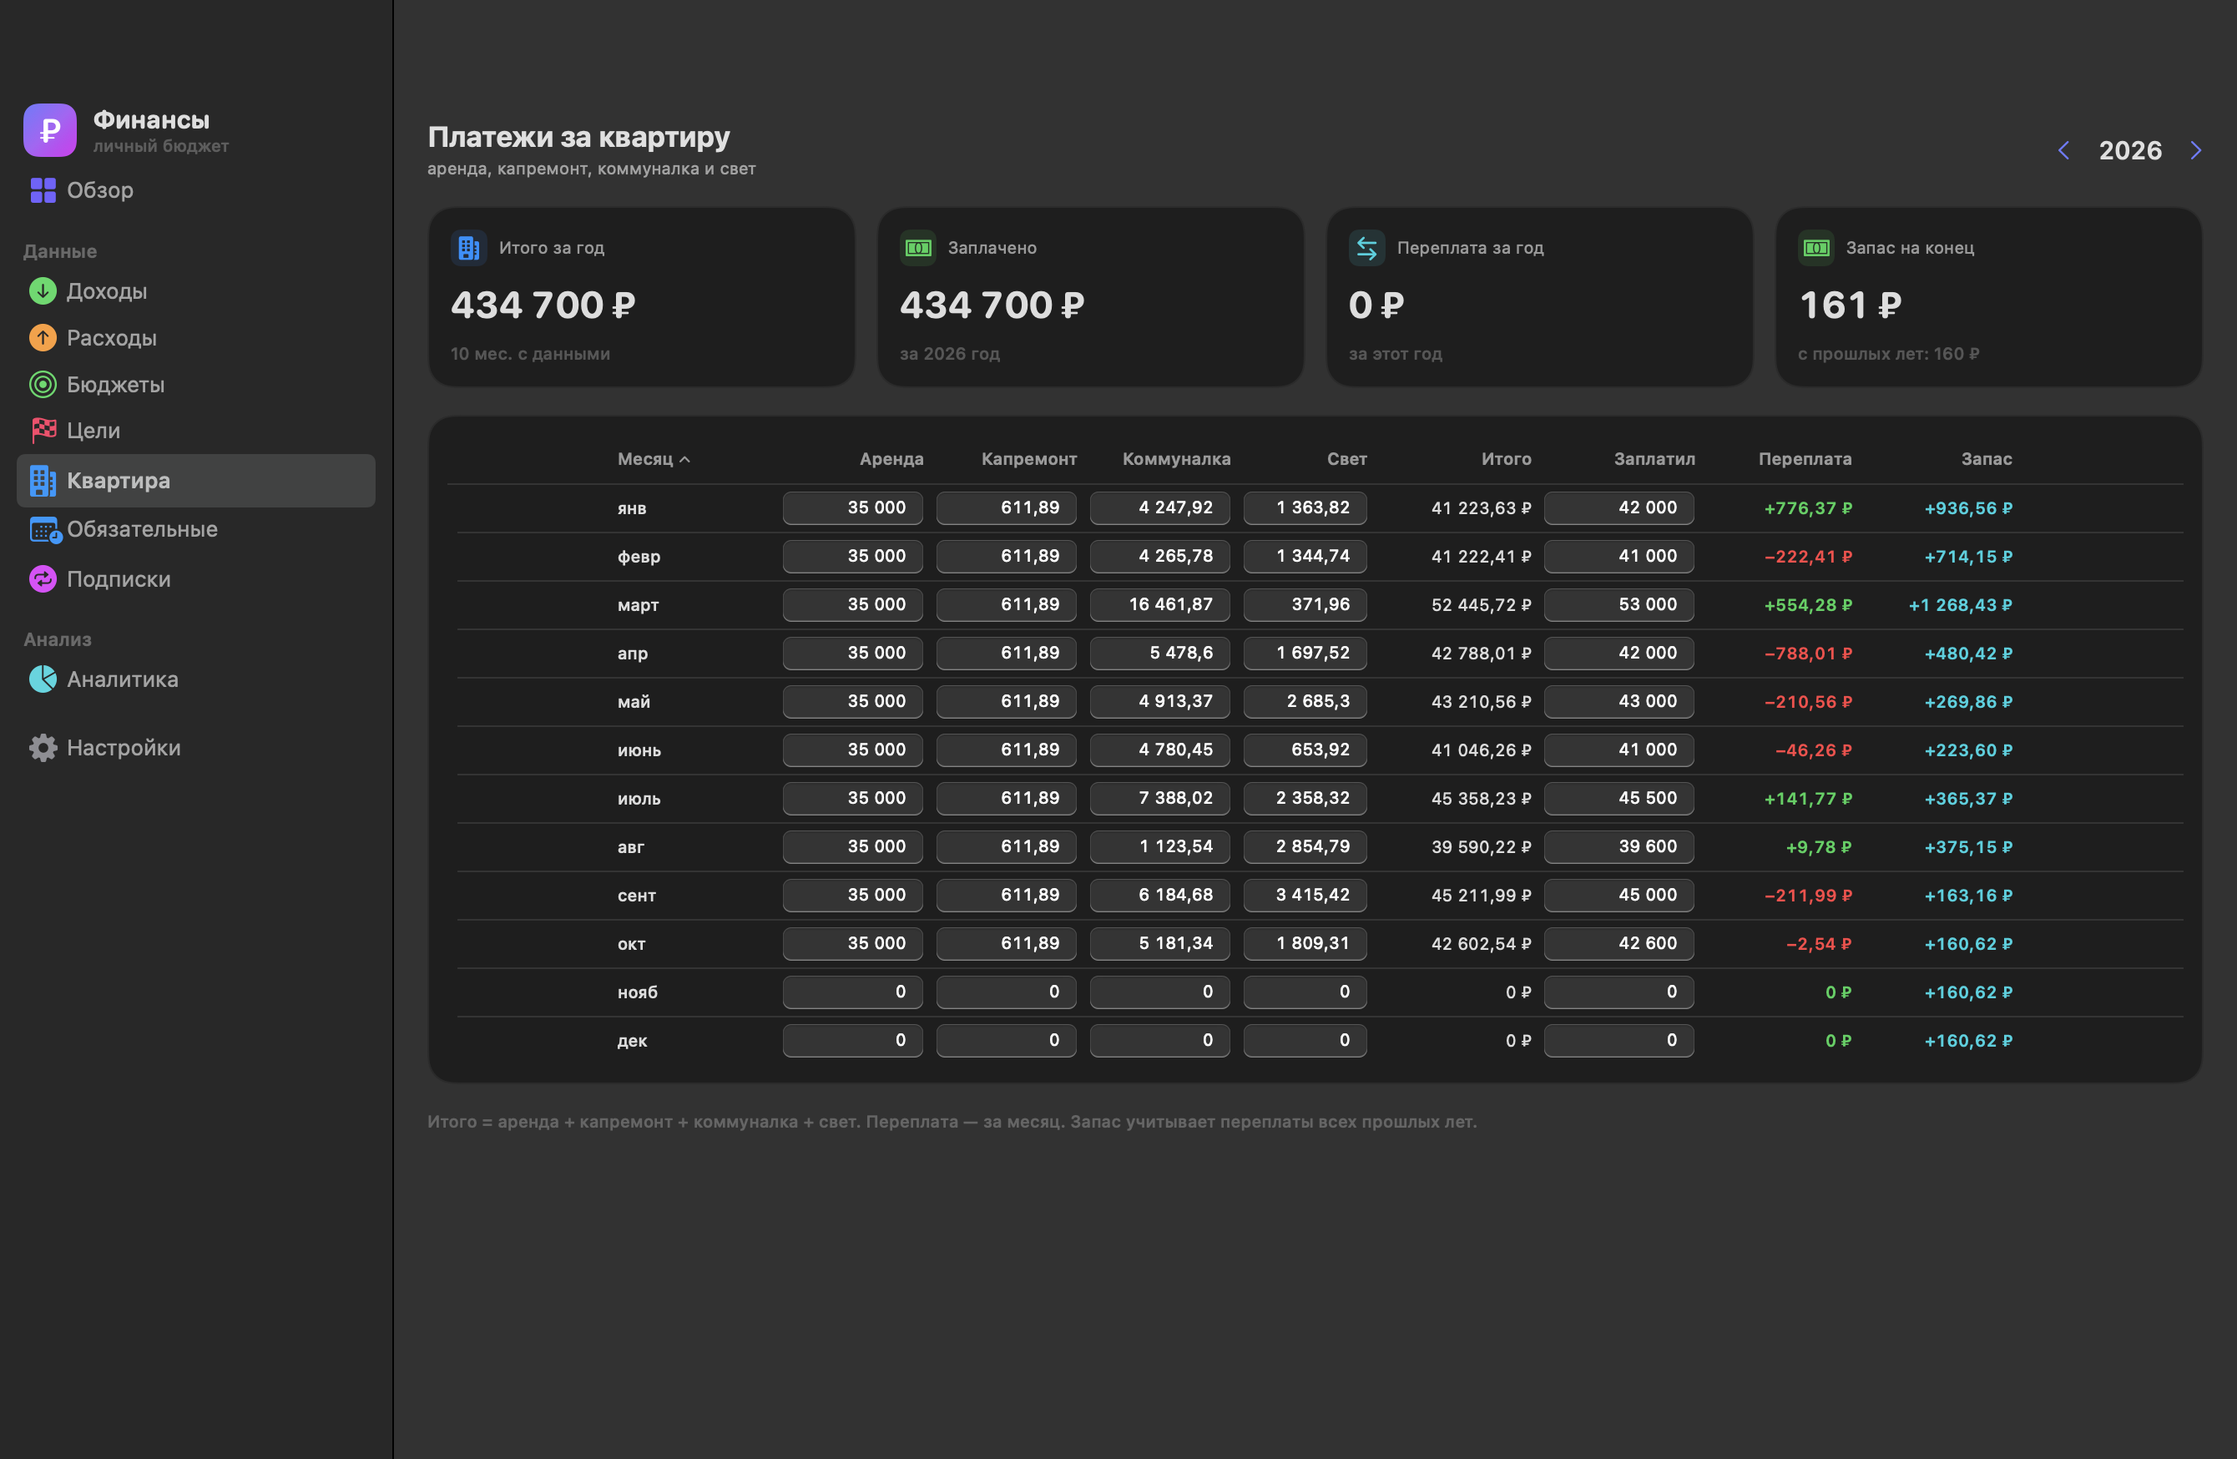
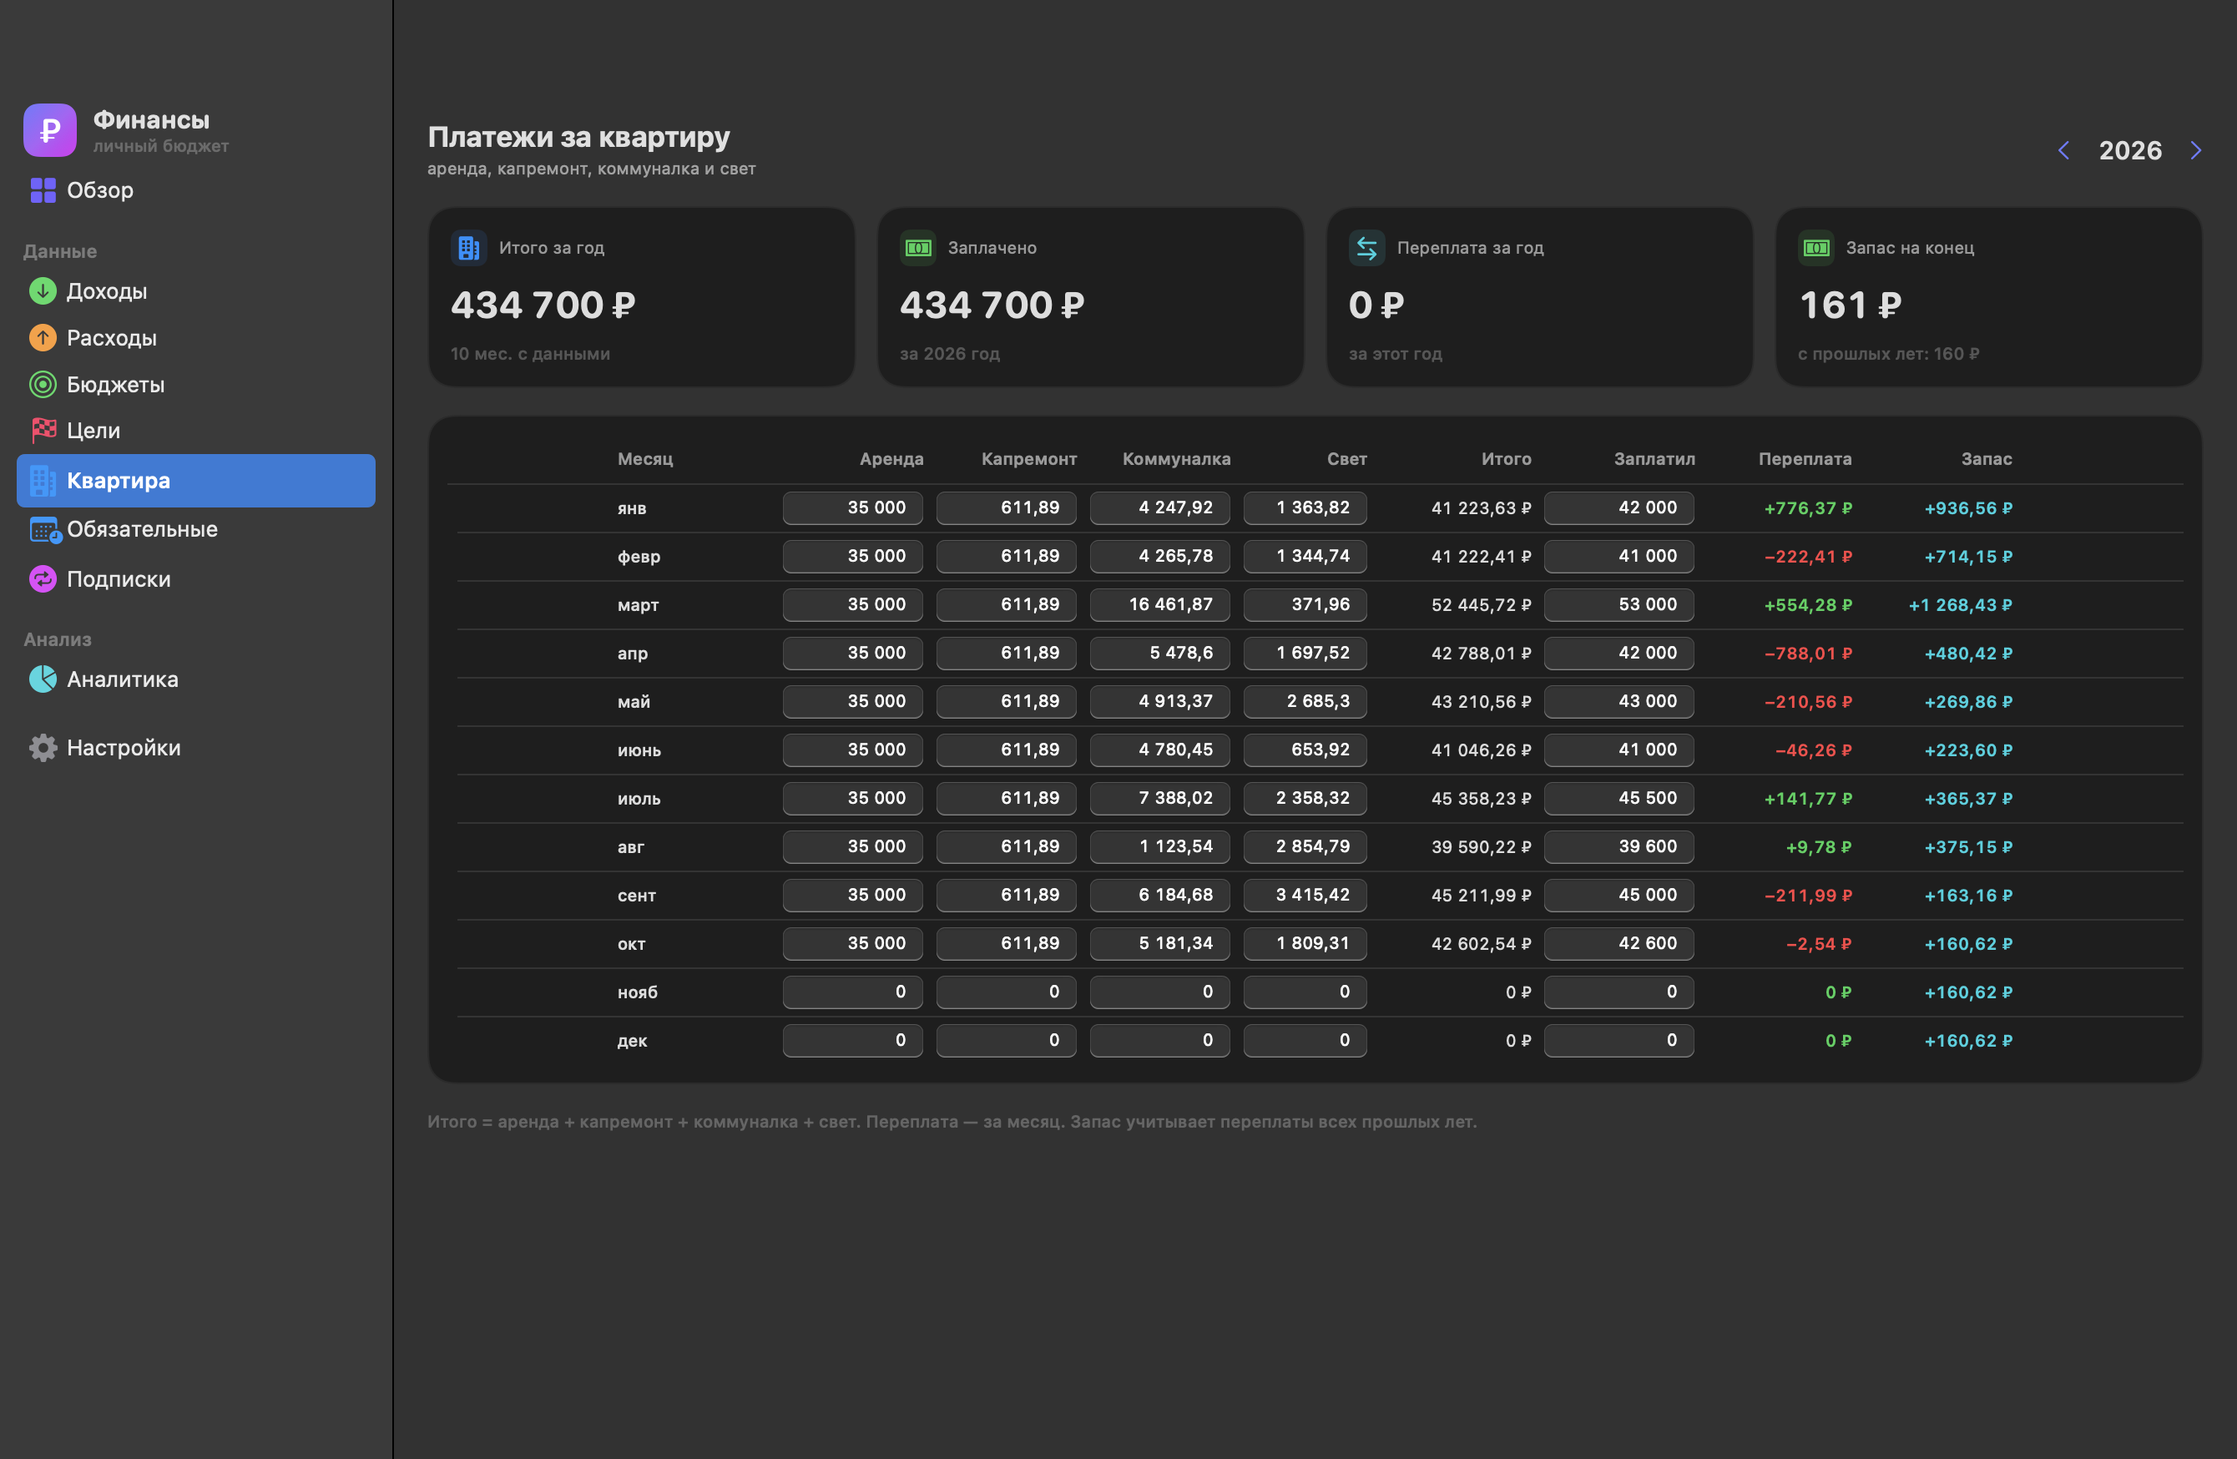
feat: sort income and expense tables
- clickable sortable columns with direction indicator
- remove sorting from apartment table
- fix past-month payment dates
- 117 tests

Changed region(s): [[0.0, 0.1854, 0.1858, 0.4016], [0.031, 0.4634, 0.0929, 0.5252], [0.031, 0.1236, 0.0619, 0.1545]]

diff --git a/Sources/FinancesUI/Views/Apartment/ApartmentView.swift b/Sources/FinancesUI/Views/Apartment/ApartmentView.swift
@@ -12,8 +12,6 @@ struct ApartmentView: View {
     @State private var year: Int = Date().year
     @State private var resultMessage: String?
     @State private var isWorking = false
-    @State private var sortColumn: ApartmentSortColumn = .month
-    @State private var sortAscending = true
 
     private var yearMonths: [ApartmentMonth] {
         months.filter { $0.year == year }.sorted { $0.month < $1.month }
@@ -32,47 +30,6 @@ struct ApartmentView: View {
     private var runningBalances: [Int: Double] {
         ApartmentService.runningBalances(for: year, months: months)
     }
-    private var sortedMonths: [ApartmentMonth] {
-        yearMonths.sorted { lhs, rhs in
-            let comparison: ComparisonResult
-            switch sortColumn {
-            case .month:
-                comparison = compare(lhs.month, rhs.month)
-            case .rent:
-                comparison = compare(lhs.rent, rhs.rent)
-            case .capitalRepair:
-                comparison = compare(lhs.capitalRepair, rhs.capitalRepair)
-            case .utilities:
-                comparison = compare(lhs.utilities, rhs.utilities)
-            case .electricity:
-                comparison = compare(lhs.electricity, rhs.electricity)
-            case .total:
-                comparison = compare(lhs.total, rhs.total)
-            case .paid:
-                comparison = compare(lhs.paid, rhs.paid)
-            case .overpayment:
-                comparison = compare(lhs.overpayment, rhs.overpayment)
-            case .stock:
-                comparison = compare(
-                    runningBalances[lhs.month] ?? 0,
-                    runningBalances[rhs.month] ?? 0
-                )
-            }
-            if comparison == .orderedSame {
-                return lhs.month < rhs.month
-            }
-            return sortAscending
-                ? comparison == .orderedAscending
-                : comparison == .orderedDescending
-        }
-    }
-
-    private func compare<T: Comparable>(_ lhs: T, _ rhs: T) -> ComparisonResult {
-        if lhs < rhs { return .orderedAscending }
-        if lhs > rhs { return .orderedDescending }
-        return .orderedSame
-    }
-
     private var filledMonths: Int {
         yearMonths.filter {
             $0.rentKopecks != 0 || $0.capitalRepairKopecks != 0
@@ -201,15 +158,15 @@ struct ApartmentView: View {
         CardView(padding: 12) {
             VStack(spacing: 0) {
                 HStack(spacing: 6) {
-                    sortHeader("Месяц", .month, width: 92, alignment: .leading)
-                    sortHeader("Аренда", .rent, width: 86)
-                    sortHeader("Капремонт", .capitalRepair, width: 86)
-                    sortHeader("Коммуналка", .utilities, width: 86)
-                    sortHeader("Свет", .electricity, width: 76)
-                    sortHeader("Итого", .total, width: 92)
-                    sortHeader("Заплатил", .paid, width: 92)
-                    sortHeader("Переплата", .overpayment, width: 88)
-                    sortHeader("Запас", .stock, width: 90)
+                    Text("Месяц").frame(width: 92, alignment: .leading)
+                    Text("Аренда").frame(width: 86, alignment: .trailing)
+                    Text("Капремонт").frame(width: 86, alignment: .trailing)
+                    Text("Коммуналка").frame(width: 86, alignment: .trailing)
+                    Text("Свет").frame(width: 76, alignment: .trailing)
+                    Text("Итого").frame(width: 92, alignment: .trailing)
+                    Text("Заплатил").frame(width: 92, alignment: .trailing)
+                    Text("Переплата").frame(width: 88, alignment: .trailing)
+                    Text("Запас").frame(width: 90, alignment: .trailing)
                 }
                 .font(.caption2.weight(.semibold))
                 .foregroundStyle(.secondary)
@@ -217,44 +174,19 @@ struct ApartmentView: View {
                 .padding(.vertical, 8)
                 Divider()
 
-                ForEach(sortedMonths) { month in
-                    ApartmentRow(
-                        month: month,
-                        runningBalance: runningBalances[month.month] ?? 0
-                    )
-                    if month.id != sortedMonths.last?.id {
+                ForEach(1...12, id: \.self) { number in
+                    if let month = yearMonths.first(where: { $0.month == number }) {
+                        ApartmentRow(
+                            month: month,
+                            runningBalance: runningBalances[number] ?? 0
+                        )
+                    }
+                    if number != 12 {
                         Divider().padding(.leading, 6)
                     }
                 }
             }
         }
-    }
-
-    private func sortHeader(
-        _ title: String,
-        _ column: ApartmentSortColumn,
-        width: CGFloat,
-        alignment: Alignment = .trailing
-    ) -> some View {
-        Button {
-            if sortColumn == column {
-                sortAscending.toggle()
-            } else {
-                sortColumn = column
-                sortAscending = true
-            }
-        } label: {
-            HStack(spacing: 2) {
-                Text(title)
-                if sortColumn == column {
-                    Image(systemName: sortAscending ? "chevron.up" : "chevron.down")
-                        .font(.system(size: 7, weight: .bold))
-                }
-            }
-            .frame(width: width, alignment: alignment)
-        }
-        .buttonStyle(.plain)
-        .help("Сортировать по колонке «\(title)»")
     }
 
     private func ensureMonths() {
@@ -339,18 +271,6 @@ struct ApartmentView: View {
             ErrorCenter.shared.report(error)
         }
     }
-}
-
-private enum ApartmentSortColumn {
-    case month
-    case rent
-    case capitalRepair
-    case utilities
-    case electricity
-    case total
-    case paid
-    case overpayment
-    case stock
 }
 
 private struct ApartmentRow: View {

diff --git a/Sources/FinancesUI/Views/Income/IncomeView.swift b/Sources/FinancesUI/Views/Income/IncomeView.swift
@@ -14,6 +14,9 @@ struct IncomeView: View {
     @State private var editor: EditorContext?
     @State private var confirmDelete = false
     @State private var pendingDelete = Set<PersistentIdentifier>()
+    @State private var sortOrder: [KeyPathComparator<IncomeEntry>] = [
+        KeyPathComparator(\IncomeEntry.date, order: .reverse)
+    ]
 
     private struct EditorContext: Identifiable {
         let id = UUID()
@@ -118,32 +121,32 @@ struct IncomeView: View {
     }
 
     private var table: some View {
-        Table(filtered, selection: $selection) {
-            TableColumn("Дата") { entry in
+        Table(filtered, selection: $selection, sortOrder: $sortOrder) {
+            TableColumn("Дата", value: \.date) { entry in
                 Text(MonthFormat.day(entry.date))
                     .font(.callout)
                     .foregroundStyle(.secondary)
             }
             .width(min: 100, ideal: 115)
 
-            TableColumn("Тип") { entry in
+            TableColumn("Тип", value: \.typeRaw) { entry in
                 TagBadge(text: entry.type.title, color: entry.type.color, icon: entry.type.icon)
             }
             .width(min: 120, ideal: 145)
 
-            TableColumn("Сумма") { entry in
+            TableColumn("Сумма", value: \.amountKopecks) { entry in
                 Text(Fmt.money(entry.amount))
                     .font(.callout.weight(.semibold))
                     .monospacedDigit()
             }
             .width(min: 110, ideal: 130)
 
-            TableColumn("Работодатель") { entry in
+            TableColumn("Работодатель", value: \.employer) { entry in
                 Text(entry.employer)
                     .lineLimit(1)
             }
 
-            TableColumn("Комментарий") { entry in
+            TableColumn("Комментарий", value: \.note) { entry in
                 Text(entry.note)
                     .foregroundStyle(.secondary)
                     .lineLimit(1)

diff --git a/Sources/FinancesUI/Views/Expenses/ExpensesView.swift b/Sources/FinancesUI/Views/Expenses/ExpensesView.swift
@@ -14,6 +14,9 @@ struct ExpensesView: View {
     @State private var editor: EditorContext?
     @State private var confirmDelete = false
     @State private var pendingDelete = Set<PersistentIdentifier>()
+    @State private var sortOrder: [KeyPathComparator<ExpenseEntry>] = [
+        KeyPathComparator(\ExpenseEntry.date, order: .reverse)
+    ]
 
     private struct EditorContext: Identifiable {
         let id = UUID()
@@ -115,27 +118,27 @@ struct ExpensesView: View {
     }
 
     private var table: some View {
-        Table(filtered, selection: $selection) {
-            TableColumn("Дата") { entry in
+        Table(filtered, selection: $selection, sortOrder: $sortOrder) {
+            TableColumn("Дата", value: \.date) { entry in
                 Text(MonthFormat.day(entry.date))
                     .font(.callout)
                     .foregroundStyle(.secondary)
             }
             .width(min: 100, ideal: 115)
 
-            TableColumn("Категория") { entry in
+            TableColumn("Категория", value: \.categoryRaw) { entry in
                 TagBadge(text: entry.category.title, color: entry.category.color, icon: entry.category.icon)
             }
             .width(min: 130, ideal: 170)
 
-            TableColumn("Сумма") { entry in
+            TableColumn("Сумма", value: \.amountKopecks) { entry in
                 Text(Fmt.money(entry.amount))
                     .font(.callout.weight(.semibold))
                     .monospacedDigit()
             }
             .width(min: 110, ideal: 135)
 
-            TableColumn("Комментарий") { entry in
+            TableColumn("Комментарий", value: \.note) { entry in
                 Text(entry.note)
                     .foregroundStyle(.secondary)
                     .lineLimit(1)

diff --git a/README.md b/README.md
@@ -55,6 +55,12 @@
 
 ![Подписки](Screenshots/subscriptions.png)
 
+### Сортировка таблиц
+
+- Доходы и расходы сортируются кликом по заголовку колонки.
+- Дата, сумма, тип/категория, работодатель и комментарий.
+- Повторный клик меняет направление.
+
 ### Бюджеты
 
 - Лимиты по категориям на выбранный месяц: лимит, потрачено, остаток и прогресс.
@@ -96,7 +102,6 @@
 - Помесячная таблица: аренда, капремонт, коммуналка, свет.
 - «Итого» и «Переплата» считаются автоматически.
 - Запас переносится между годами: переплата 2025 года учитывается в 2026.
-- Сортировка по любой колонке: месяц, суммы, итого, переплата, запас.
 - Импорт и экспорт XLSX с тем же набором колонок.
 - Сводка за год и редактирование прямо в таблице.
 

diff --git a/ROADMAP.md b/ROADMAP.md
@@ -72,7 +72,7 @@
 
 ### v2.1 — Квартира и XLSX ✅
 
-**Статус:** релиз 2.1.1. Раздел «Квартира», XLSX, перенос запаса, сортировка по колонкам и схема V7 готовы (117 тестов). Данные за декабрь 2025 — октябрь 2026 импортированы в локальный store.
+**Статус:** релиз 2.1.1. Раздел «Квартира», XLSX, перенос запаса, сортировка таблиц доходов/расходов и схема V7 готовы (117 тестов). Данные за декабрь 2025 — октябрь 2026 импортированы в локальный store.
 
 **Фичи**
 

diff --git a/CHANGELOG.md b/CHANGELOG.md
@@ -6,12 +6,13 @@
 
 ### Добавлено
 
-- Сортировка таблицы «Квартира» по любой колонке.
+- Сортировка таблиц доходов и расходов по колонкам.
 - Индикатор направления сортировки.
 
 ### Исправлено
 
 - Консистентный фон detail-области в тёмной теме.
+- Оплата за прошлый месяц больше не записывается текущей датой.
 
 ### Тесты
 
